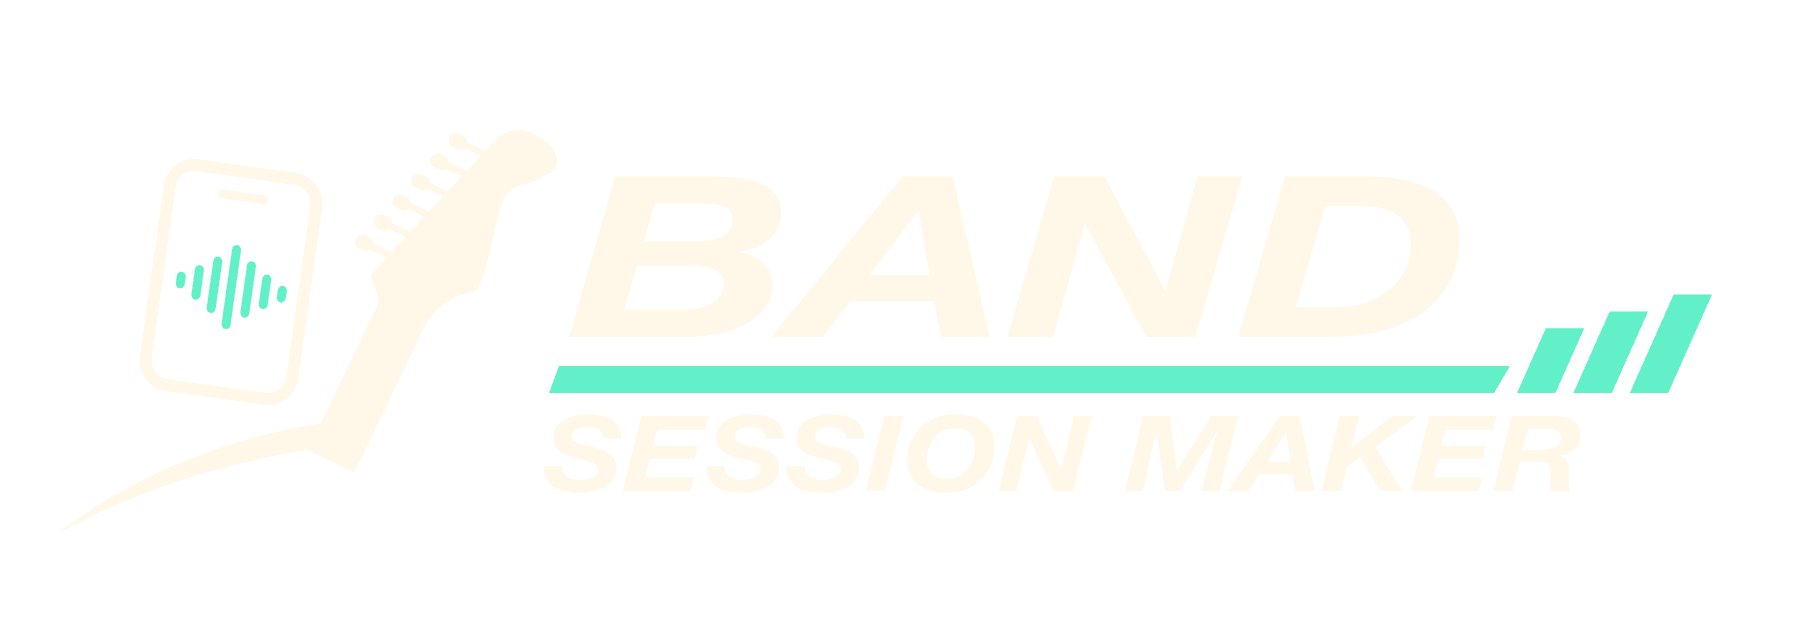
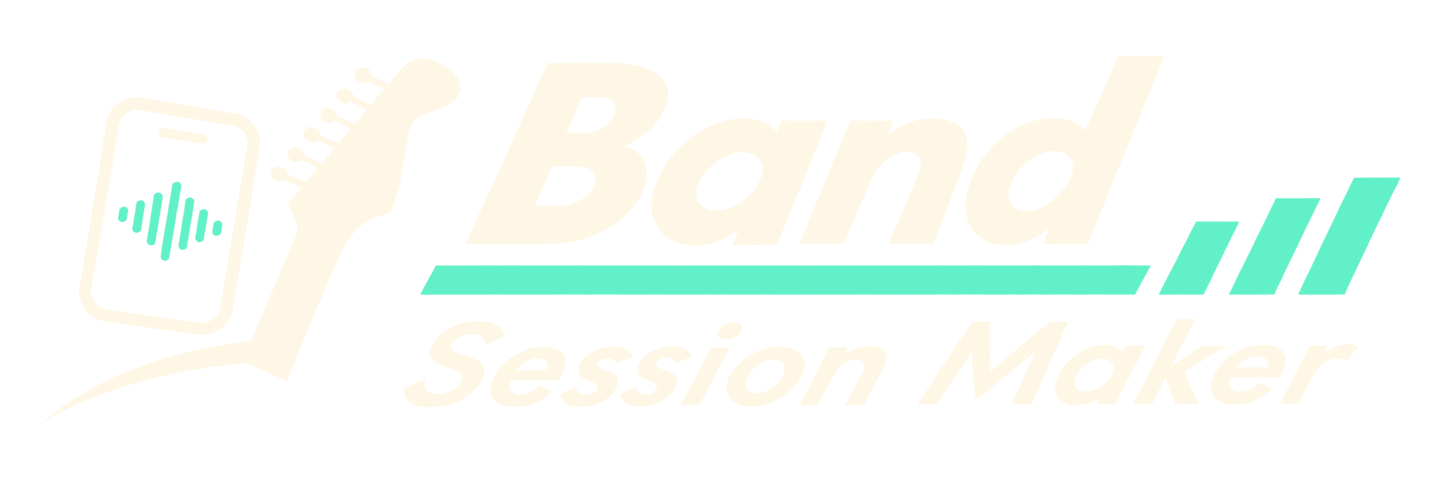
Publish final Band Session Maker wordmark

diff --git a/self-session-maker/index.html b/self-session-maker/index.html
@@ -1,12 +1,12 @@
 <!doctype html>
 <html lang="ja">
-<head><meta charset="utf-8"><meta name="viewport" content="width=device-width,initial-scale=1"><meta name="robots" content="index,follow"><title>Band Session Maker | バンドの中で、ひとりを磨く。</title><meta name="description" content="自分のパートを下げて、バンドの中で練習する。iPhone向け音源分離・練習アプリ、Band Session Makerの紹介。"><link rel="canonical" href="https://nakayamaworks.jp/self-session-maker/"><meta property="og:title" content="Band Session Maker"><meta property="og:description" content="バンドの中で、ひとりを磨く。iPhone向け音源分離・練習アプリ。"><meta property="og:url" content="https://nakayamaworks.jp/self-session-maker/"><meta property="og:type" content="website"><meta property="og:image" content="https://nakayamaworks.jp/self-session-maker/assets/band-session-maker-wordmark.png?v=9"><link rel="icon" href="assets/app-icon.png?v=9"><link rel="stylesheet" href="styles.css"><script src="gallery.js" defer></script></head>
+<head><meta charset="utf-8"><meta name="viewport" content="width=device-width,initial-scale=1"><meta name="robots" content="index,follow"><title>Band Session Maker | バンドの中で、ひとりを磨く。</title><meta name="description" content="自分のパートを下げて、バンドの中で練習する。iPhone向け音源分離・練習アプリ、Band Session Makerの紹介。"><link rel="canonical" href="https://nakayamaworks.jp/self-session-maker/"><meta property="og:title" content="Band Session Maker"><meta property="og:description" content="バンドの中で、ひとりを磨く。iPhone向け音源分離・練習アプリ。"><meta property="og:url" content="https://nakayamaworks.jp/self-session-maker/"><meta property="og:type" content="website"><meta property="og:image" content="https://nakayamaworks.jp/self-session-maker/assets/band-session-maker-wordmark.png?v=10"><link rel="icon" href="assets/app-icon.png?v=9"><link rel="stylesheet" href="styles.css"><script src="gallery.js" defer></script></head>
 <body>
 <div class="draft">iPhone向け <span>App Store 公開準備中</span></div>
 <header class="site-header"><div class="wrap header-inner"><a class="brand" href="#top"><img src="assets/app-icon.png?v=9" width="40" height="40" alt=""><span>Band Session Maker</span></a><nav aria-label="ページ内"><a href="#mix">できること</a><a href="#practice">練習の流れ</a><a href="#faq">FAQ</a></nav><a class="header-link" href="../">Nakayama Works ↗</a></div></header>
 <main id="top">
 <section class="hero wrap">
-<div class="hero-copy"><p class="platform">iPhone向け 音源分離・練習アプリ</p><img class="hero-wordmark" src="assets/band-session-maker-wordmark.png?v=9" width="1800" height="630" alt="Band Session Maker"><h1>バンドの中で、<br><em>ひとりを磨く。</em></h1><p class="lead">いつもの曲から、自分のパートを下げる。<br>残ったバンドの音に、あなたの演奏を重ねよう。</p><div class="actions"><button class="store-placeholder" type="button" disabled><span>App Store</span><small>公開準備中</small></button></div></div>
+<div class="hero-copy"><p class="platform">iPhone向け 音源分離・練習アプリ</p><img class="hero-wordmark" src="assets/band-session-maker-wordmark.png?v=10" width="1440" height="480" alt="Band Session Maker"><h1>バンドの中で、<br><em>ひとりを磨く。</em></h1><p class="lead">いつもの曲から、自分のパートを下げる。<br>残ったバンドの音に、あなたの演奏を重ねよう。</p><div class="actions"><button class="store-placeholder" type="button" disabled><span>App Store</span><small>公開準備中</small></button></div></div>
 <div class="hero-art real-hero"><div class="orbit orbit-one"></div><div class="orbit orbit-two"></div><div class="real-device"><img src="assets/app-mix-dark.png" width="1206" height="2622" alt="Band Session Makerの実際のミックス調整画面。架空の楽曲「夜明けのリフ」のギターをMUTEにした状態"></div><img class="hero-guitar" src="assets/guitar.svg" alt="6弦ギター"></div>
 </section>
 <section class="section wrap" id="mix"><div class="section-heading"><div><h2>あなたが入る、<br>余白をつくる。</h2></div><p>ギターを下げて、バッキングに。<br>ベースだけを聴いて、フレーズの確認に。<br>6つのパートから、練習に合うバランスへ。</p></div>

diff --git a/index.html b/index.html
@@ -136,7 +136,7 @@
 
         <div class="hero-products" aria-label="開発プロダクト">
           <a class="hero-product hero-product-dokusouka" href="self-session-maker/" aria-label="Band Session Makerの紹介ページを見る">
-            <div class="dokusouka-logo-frame"><img src="self-session-maker/assets/band-session-maker-wordmark.png?v=9" alt="Band Session Maker" width="1800" height="630"></div>
+            <div class="dokusouka-logo-frame"><img src="self-session-maker/assets/band-session-maker-wordmark.png?v=10" alt="Band Session Maker" width="1440" height="480"></div>
             <div><p>iPhone向け 音源分離・練習アプリ</p><span>バンドの中で、ひとりを磨く。</span></div>
           </a>
           <a class="hero-product hero-product-misemaru" href="https://misemaru.cloud/" target="_blank" rel="noopener noreferrer" aria-label="みせまるクラウドのサイトを見る">
@@ -329,7 +329,7 @@
             </div>
             <div class="case-media dokusouka-media">
               <span class="dokusouka-platform">iPhone向け / App Store 公開準備中</span>
-              <div class="dokusouka-media-title dokusouka-logo-frame"><img src="self-session-maker/assets/band-session-maker-wordmark.png?v=9" alt="Band Session Maker" width="1800" height="630" loading="lazy"></div>
+              <div class="dokusouka-media-title dokusouka-logo-frame"><img src="self-session-maker/assets/band-session-maker-wordmark.png?v=10" alt="Band Session Maker" width="1440" height="480" loading="lazy"></div>
               <img src="self-session-maker/assets/band-ensemble.png" alt="マイク、6弦ギター、ドラム、4弦ベース、鍵盤、サンプラーの集合イラスト" width="1760" height="880" loading="lazy">
             </div>
           </div>
